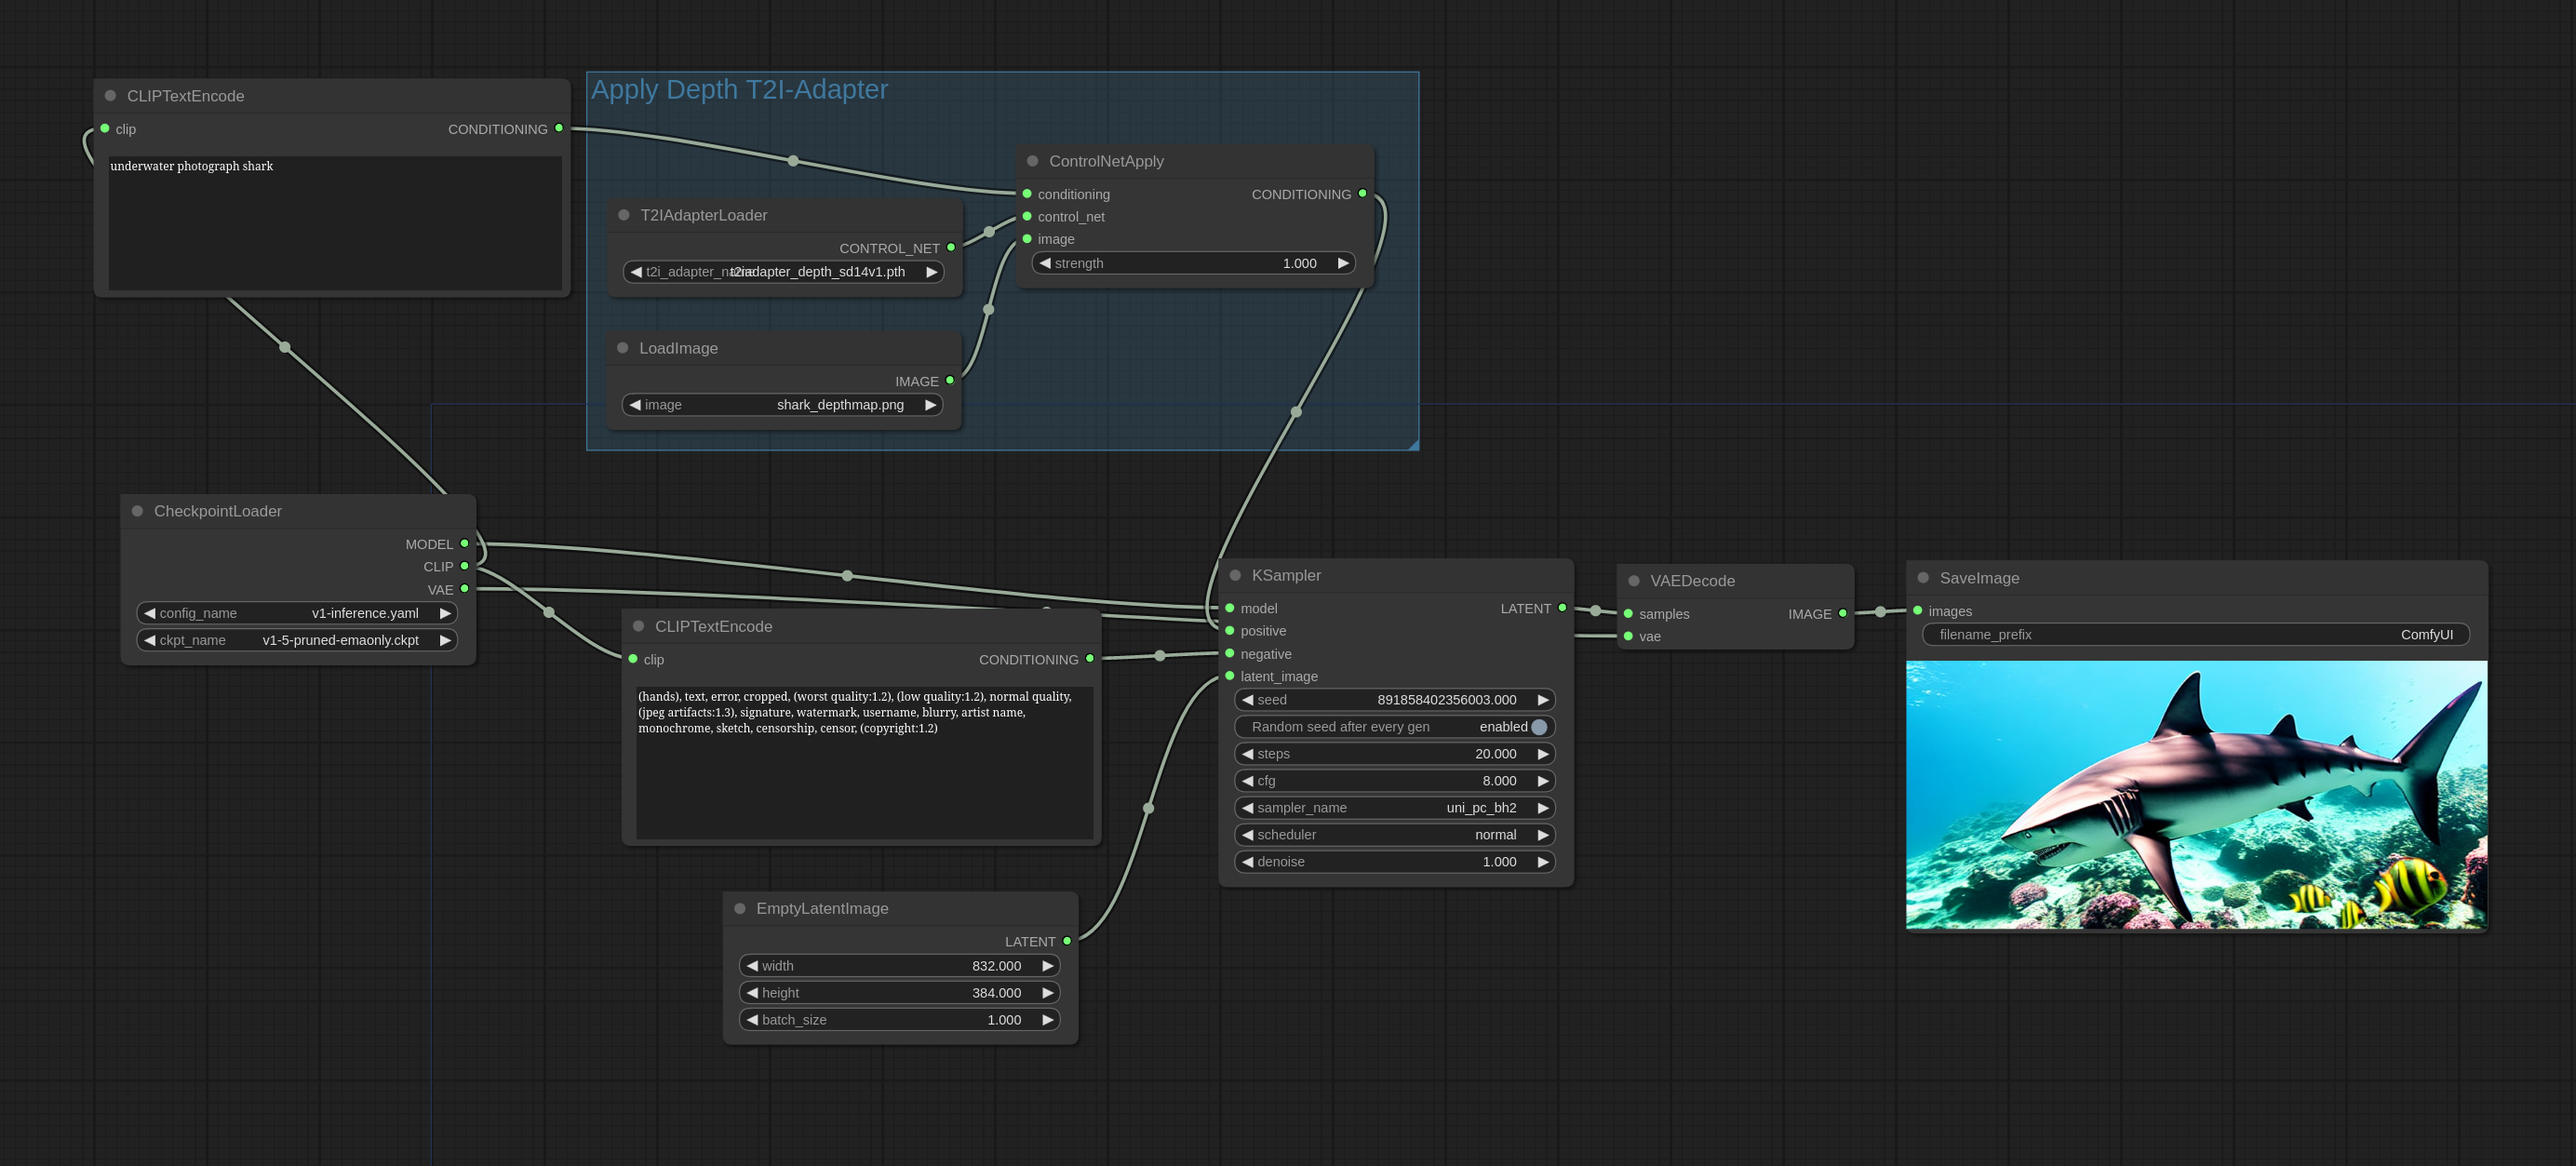
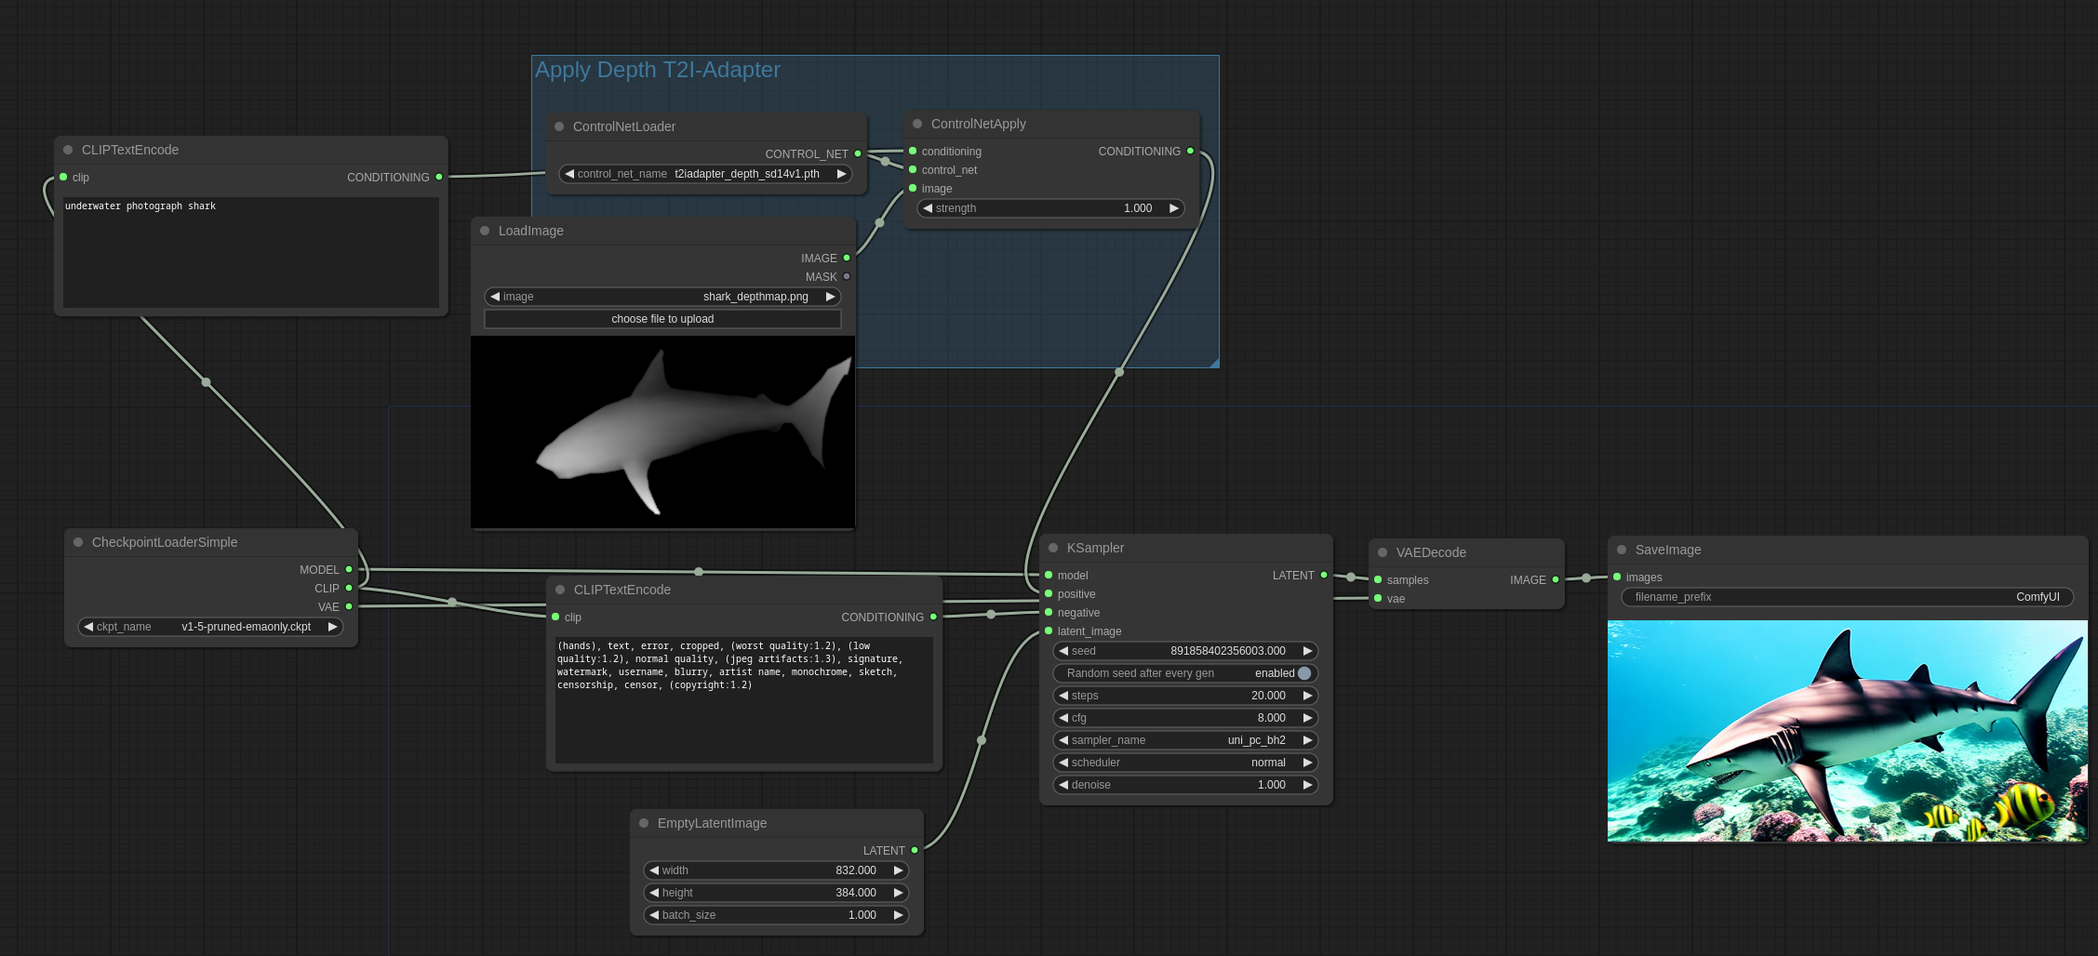
Update t2i adapter example. T2IAdapterLoader -> ControlNetLoader

Changed region(s): [[0.031, 0.0311, 1.0, 0.9027], [0.2794, 0.7782, 0.4346, 0.965], [0.2483, 0.6848, 0.4346, 0.716]]

diff --git a/controlnet/README.md b/controlnet/README.md
@@ -24,7 +24,7 @@ T2I-Adapters are much much more efficient than ControlNets so I highly recommend
 
 In ControlNets the ControlNet model is run once every iteration. For the T2I-Adapter the model runs once in total.
 
-T2I-Adapters are used the same way as ControlNets in ComfyUI, the only thing that changes is that there is a T2IAdapterLoader node to load them.
+T2I-Adapters are used the same way as ControlNets in ComfyUI: using the ControlNetLoader node.
 
 This is the input image that will be used in this example [source](https://commons.wikimedia.org/wiki/File:Stereogram_Tut_Shark_Depthmap.png):
 
